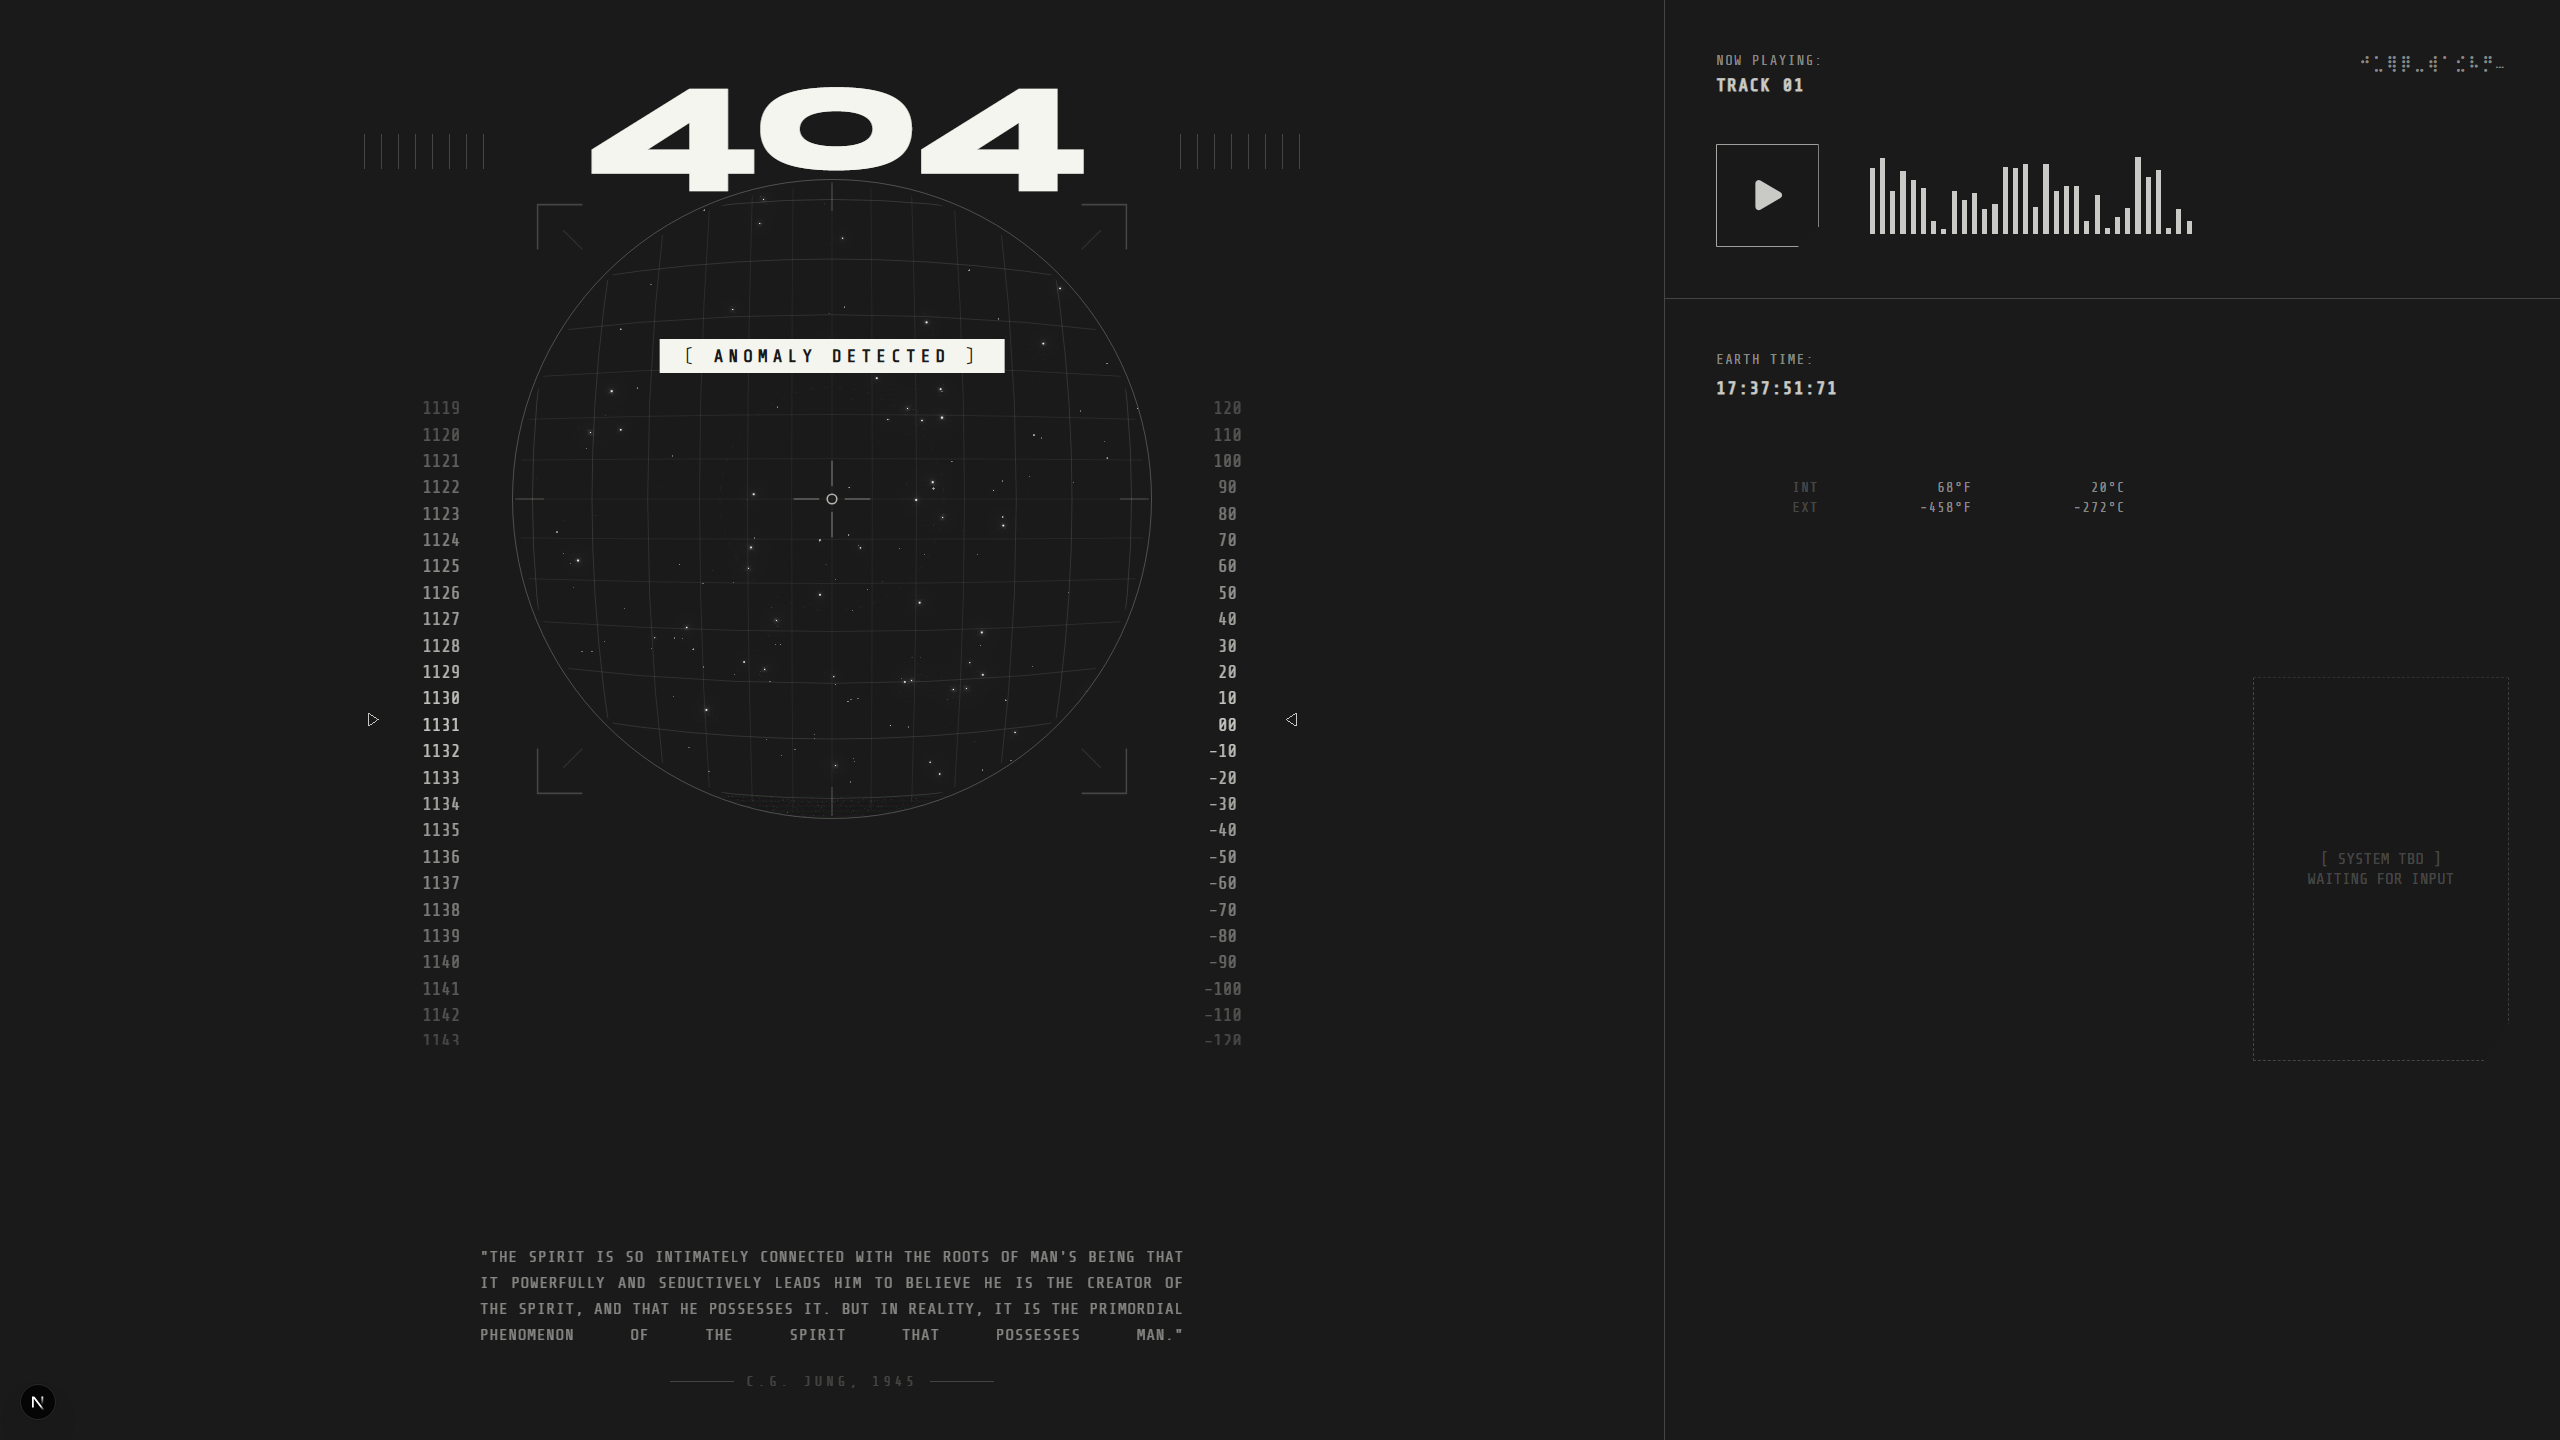
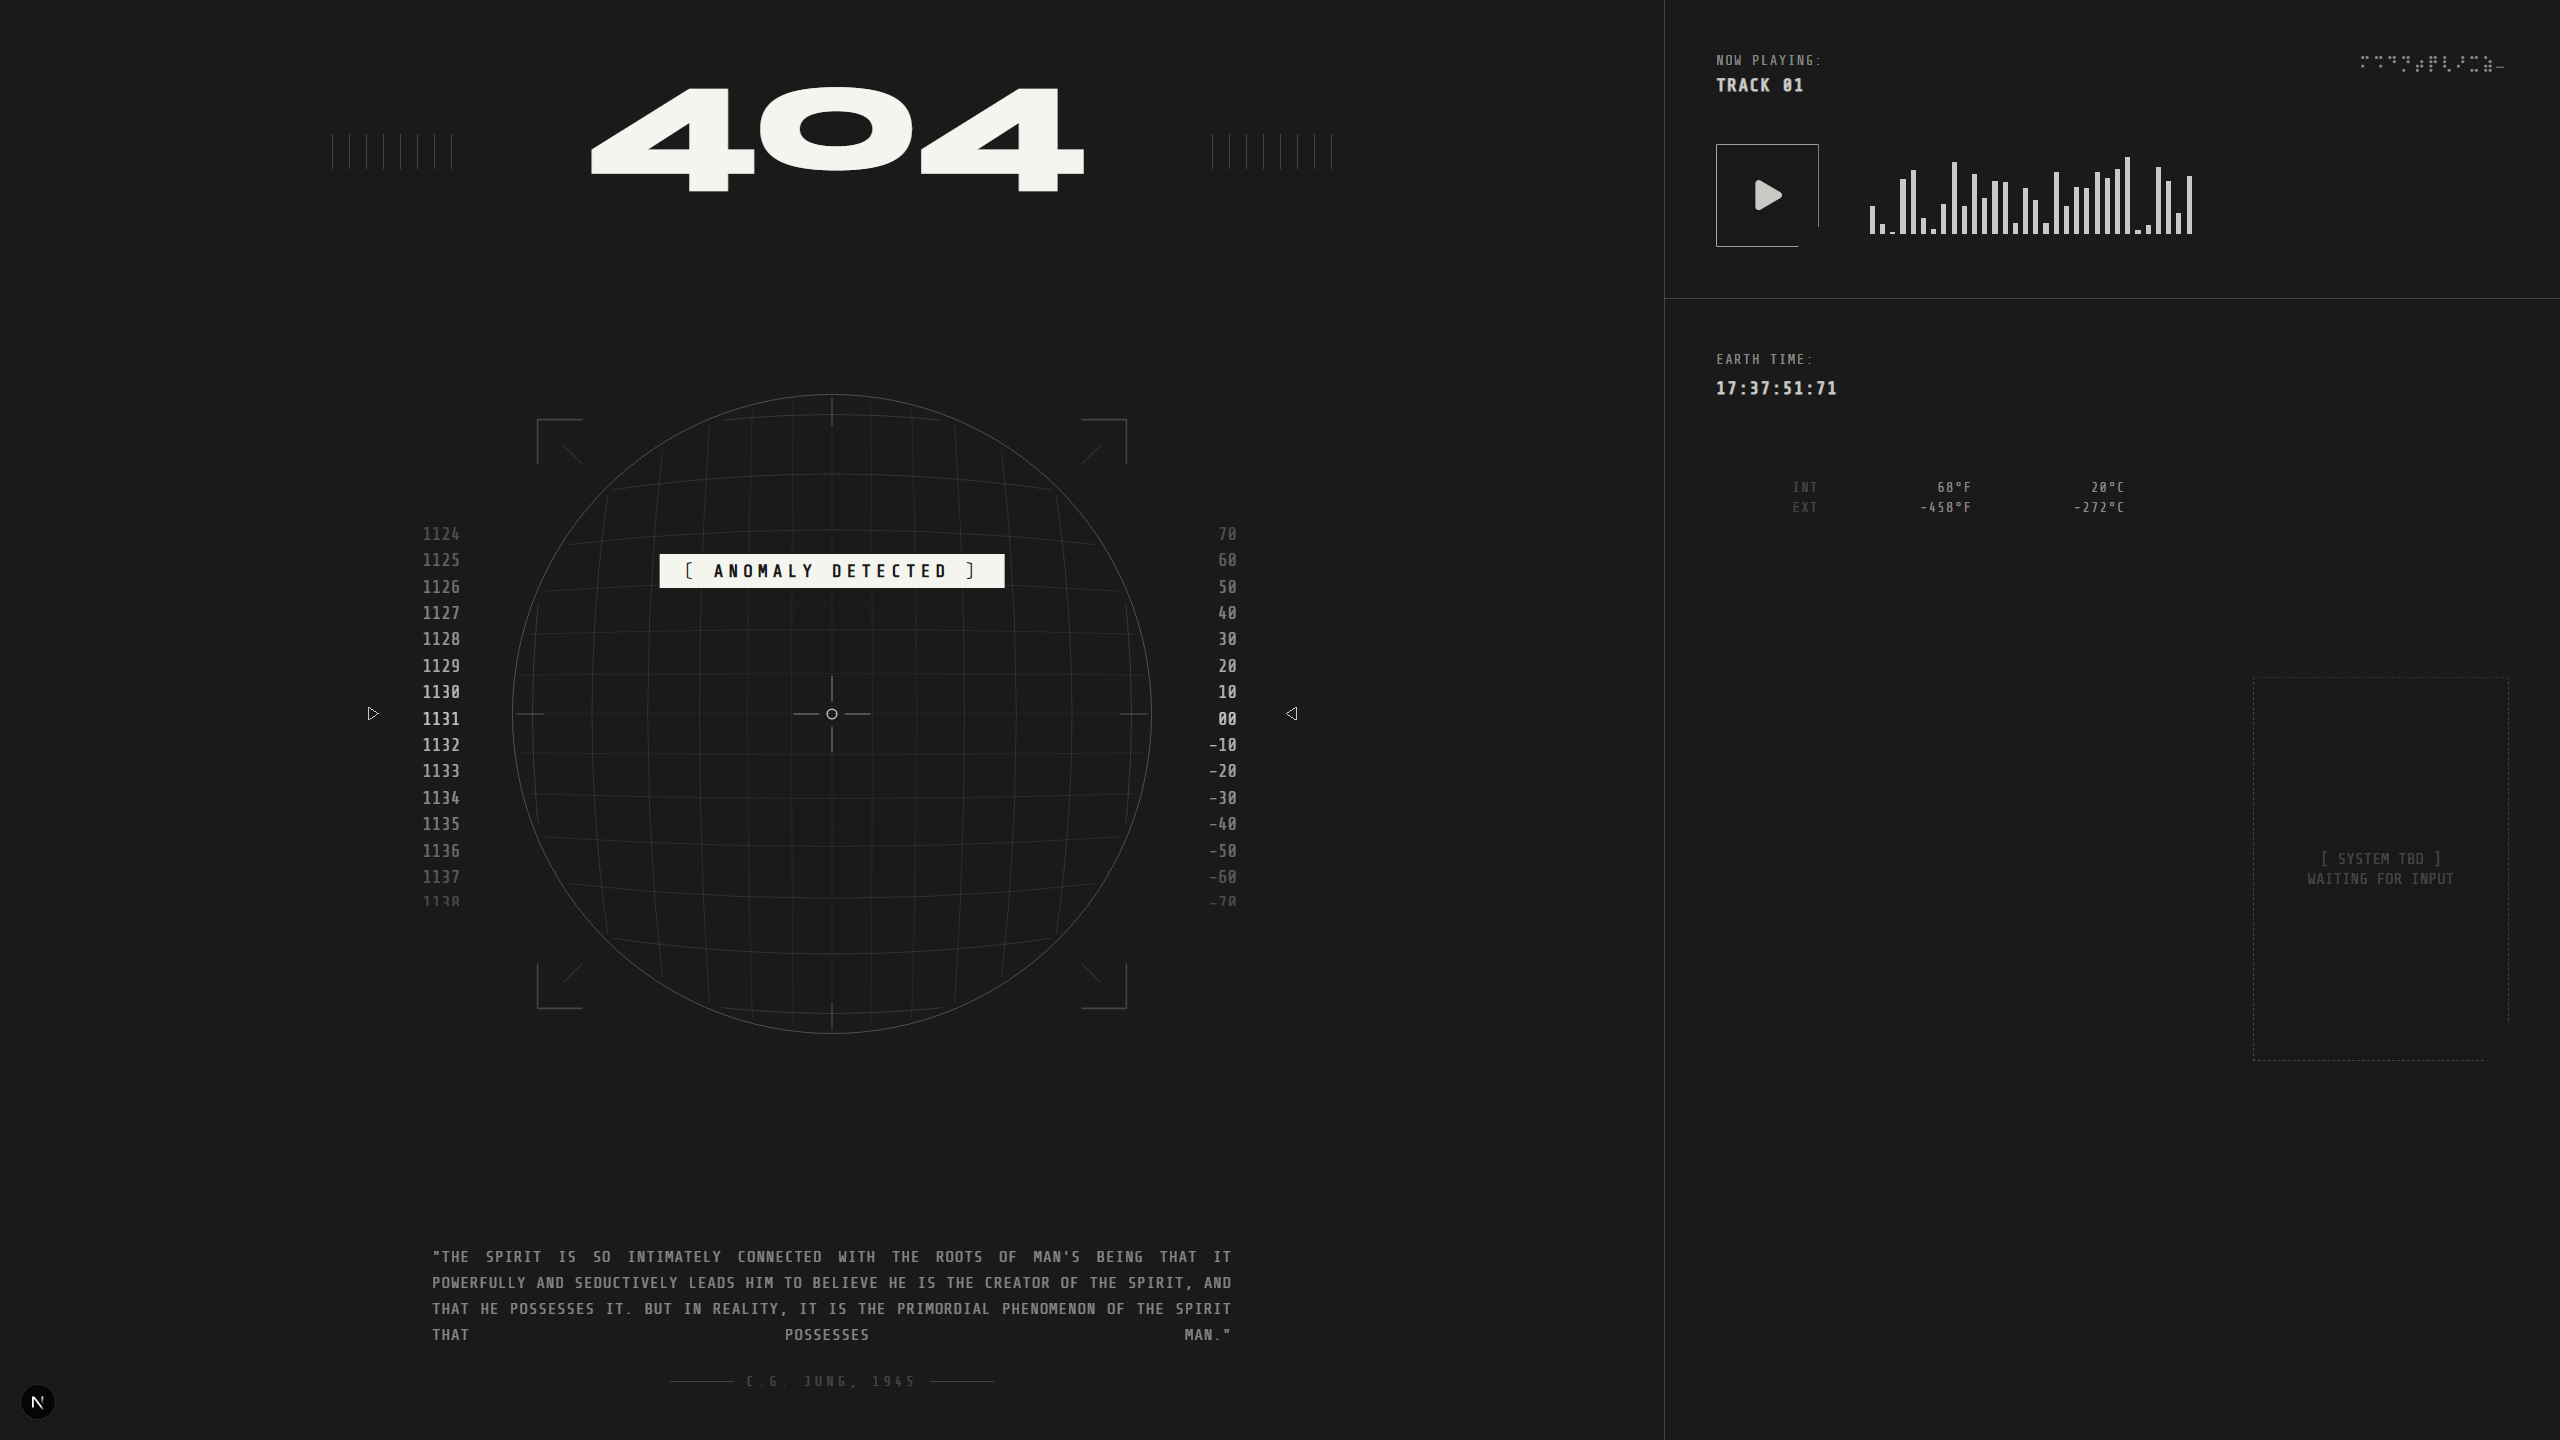
좌측 영역 재구조화 성공

diff --git a/components/ui/not-found/CockpitHUD.tsx b/components/ui/not-found/CockpitHUD.tsx
@@ -1,13 +1,7 @@
 "use client";
 
 import React from "react";
-import { MotionValue } from "framer-motion";
 import VerticalHUD from "./VerticalHUD";
-
-interface CockpitHUDProps {
-    mouseX: MotionValue<number>;
-    mouseY: MotionValue<number>;
-}
 
 /* ── Curved Spherical Grid Lines ── */
 function SphericalGrid() {
@@ -93,84 +87,95 @@ export default function CockpitHUD() {
     const fullQuote = `"The spirit is so intimately connected with the roots of man's being that it powerfully and seductively leads him to believe he is the creator of the spirit, and that he possesses it. But in reality, it is the primordial phenomenon of the spirit that possesses man."`;
 
     return (
-        <div className="relative h-full w-full pointer-events-none flex justify-center items-center overflow-hidden">
-            
-            {/* ── Top Header (Absolute Positioning) ── */}
-            <div className="absolute top-4 md:top-8 lg:top-12 left-1/2 -translate-x-1/2 w-full max-w-[min(95vw,1000px)] flex items-end justify-between z-30 px-4 md:px-8">
-                <div className="flex-1 flex items-end justify-start opacity-20 gap-2 md:gap-4 pb-[10px] md:pb-[15px]">
-                    {Array.from({ length: 8 }).map((_, i) => (
-                        <div key={`leftline-${i}`} className="w-[1px] h-[20px] md:h-[35px] bg-[var(--foreground)]" />
-                    ))}
-                </div>
-                
-                <h1 
-                    className="shrink-0 font-serif font-[900] tracking-tighter mx-4 md:mx-8 text-center"
-                    style={{ fontSize: 'clamp(5rem, 10vw, 10rem)', letterSpacing: '-0.05em', lineHeight: '0.85' }}
-                >
-                    404
-                </h1>
+        <div
+            className="h-full w-full pointer-events-none overflow-hidden"
+            style={{ display: 'grid', gridTemplateRows: 'auto 1fr auto' }}
+        >
+            {/* ═══ Row 1: Top Header (404 + Barcode Lines) ═══
+                z-30 so it paints ABOVE the viewport mask shadow */}
+            <div className="relative z-30 flex justify-center w-full pt-4 md:pt-8 lg:pt-12 px-4 md:px-8">
+                <div className="w-full max-w-[min(95vw,1000px)] flex items-end justify-between">
+                    <div className="flex-1 flex items-end justify-start opacity-20 gap-2 md:gap-4 pb-[10px] md:pb-[15px]">
+                        {Array.from({ length: 8 }).map((_, i) => (
+                            <div key={`leftline-${i}`} className="w-[1px] h-[20px] md:h-[35px] bg-[var(--foreground)]" />
+                        ))}
+                    </div>
 
-                <div className="flex-1 flex items-end justify-end opacity-20 gap-2 md:gap-4 pb-[10px] md:pb-[15px]">
-                    {Array.from({ length: 8 }).map((_, i) => (
-                        <div key={`rightline-${i}`} className="w-[1px] h-[20px] md:h-[35px] bg-[var(--foreground)]" />
-                    ))}
+                    <h1
+                        className="shrink-0 font-serif font-[900] tracking-tighter mx-4 md:mx-8 text-center"
+                        style={{ fontSize: 'clamp(5rem, 10vw, 10rem)', letterSpacing: '-0.05em', lineHeight: '0.85' }}
+                    >
+                        404
+                    </h1>
+
+                    <div className="flex-1 flex items-end justify-end opacity-20 gap-2 md:gap-4 pb-[10px] md:pb-[15px]">
+                        {Array.from({ length: 8 }).map((_, i) => (
+                            <div key={`rightline-${i}`} className="w-[1px] h-[20px] md:h-[35px] bg-[var(--foreground)]" />
+                        ))}
+                    </div>
                 </div>
             </div>
 
-            {/* ── Middle Area (Centered) ── */}
-            <div className="relative w-full max-w-[min(95vw,1000px)] flex flex-row items-stretch justify-between shrink-0 z-10 px-4 md:px-8">
-                
-                {/* Left HUD */}
-                <div className="flex-1 flex items-center justify-start z-20">
-                    <VerticalHUD side="left" />
-                </div>
+            {/* ═══ Row 2: Viewport Circle + Vertical HUDs ═══
+                1fr takes all remaining vertical space.
+                min-h-0 prevents flex overflow.
+                z-10 so the box-shadow mask sits behind Row 1 & Row 3. */}
+            <div className="relative z-10 flex items-center justify-center w-full min-h-0">
+                <div className="w-full max-w-[min(95vw,1000px)] flex flex-row items-center justify-between px-4 md:px-8">
 
-                {/* Viewport Mask and Overlay */}
-                <div className="relative z-[5] shrink-0 flex items-center justify-center w-[300px] h-[300px] md:w-[min(55vh,640px)] md:h-[min(55vh,640px)]">
-                    
-                    {/* Mask shadow extending out */}
-                    <div className="w-full h-full rounded-full relative" style={{ boxShadow: "0 0 0 200vmax var(--background)" }}>
-                        <div className="absolute inset-0 rounded-full border border-[var(--foreground)]/25" />
+                    {/* Left HUD — explicit height matching viewport */}
+                    <div className="flex-1 flex items-center justify-start z-20 h-[300px] md:h-[min(55vh,640px)]">
+                        <VerticalHUD side="left" />
                     </div>
 
-                    <div className="absolute inset-0 z-10">
-                        <ViewportOverlay />
-                    </div>
+                    {/* Viewport Mask and Overlay */}
+                    <div className="relative z-[5] shrink-0 flex items-center justify-center w-[300px] h-[300px] md:w-[min(55vh,640px)] md:h-[min(55vh,640px)]">
+                        {/* Mask shadow — 200vmax creates the opaque cockpit wall */}
+                        <div className="w-full h-full rounded-full relative" style={{ boxShadow: "0 0 0 200vmax var(--background)" }}>
+                            <div className="absolute inset-0 rounded-full border border-[var(--foreground)]/25" />
+                        </div>
 
-                    <div className="absolute top-[25%] left-1/2 -translate-x-1/2 z-10">
-                        <div
-                            className="px-4 py-1 bg-[var(--foreground)] text-[var(--background)] tracking-[0.3em] font-mono uppercase font-bold whitespace-nowrap"
-                            style={{ fontSize: 'clamp(0.7rem, 0.9vw, 1.1rem)' }}
-                        >
-                            〔 ANOMALY DETECTED 〕
+                        <div className="absolute inset-0 z-10">
+                            <ViewportOverlay />
+                        </div>
+
+                        <div className="absolute top-[25%] left-1/2 -translate-x-1/2 z-10">
+                            <div
+                                className="px-4 py-1 bg-[var(--foreground)] text-[var(--background)] tracking-[0.3em] font-mono uppercase font-bold whitespace-nowrap"
+                                style={{ fontSize: 'clamp(0.7rem, 0.9vw, 1.1rem)' }}
+                            >
+                                〔 ANOMALY DETECTED 〕
+                            </div>
                         </div>
                     </div>
 
-                </div>
-
-                {/* Right HUD */}
-                <div className="flex-1 flex items-center justify-end z-20">
-                    <VerticalHUD side="right" />
+                    {/* Right HUD — explicit height matching viewport */}
+                    <div className="flex-1 flex items-center justify-end z-20 h-[300px] md:h-[min(55vh,640px)]">
+                        <VerticalHUD side="right" />
+                    </div>
                 </div>
             </div>
 
-            {/* ── Bottom Quote Panel (Absolute Positioning) ── */}
-            <div className="absolute bottom-4 md:bottom-8 lg:bottom-12 left-1/2 -translate-x-1/2 w-full max-w-[85vw] md:max-w-[800px] flex flex-col justify-center z-30 px-4 md:px-12">
-                <p 
-                    className="w-full font-mono leading-relaxed text-justify uppercase tracking-[0.05em] opacity-50"
-                    style={{ fontSize: 'clamp(0.6rem, 0.8vw, 1rem)', textAlignLast: 'justify' }}
-                >
-                    {fullQuote}
-                </p>
-                <div className="flex items-center justify-center gap-3 mt-4 md:mt-6">
-                    <div className="h-[1px] w-8 md:w-16 bg-[var(--foreground)] opacity-20" />
-                    <span 
-                        className="font-mono opacity-20 tracking-[0.3em] uppercase whitespace-nowrap"
-                        style={{ fontSize: 'clamp(0.5rem, 0.65vw, 0.85rem)' }}
+            {/* ═══ Row 3: Bottom Quote Panel ═══
+                z-30 so it paints ABOVE the viewport mask shadow */}
+            <div className="relative z-30 flex justify-center w-full pb-4 md:pb-8 lg:pb-12 px-4 md:px-12">
+                <div className="w-full max-w-[85vw] md:max-w-[800px] flex flex-col justify-center">
+                    <p
+                        className="w-full font-mono leading-relaxed text-justify uppercase tracking-[0.05em] opacity-50"
+                        style={{ fontSize: 'clamp(0.6rem, 0.8vw, 1rem)', textAlignLast: 'justify' }}
                     >
-                        C.G. JUNG, 1945
-                    </span>
-                    <div className="h-[1px] w-8 md:w-16 bg-[var(--foreground)] opacity-20" />
+                        {fullQuote}
+                    </p>
+                    <div className="flex items-center justify-center gap-3 mt-4 md:mt-6">
+                        <div className="h-[1px] w-8 md:w-16 bg-[var(--foreground)] opacity-20" />
+                        <span
+                            className="font-mono opacity-20 tracking-[0.3em] uppercase whitespace-nowrap"
+                            style={{ fontSize: 'clamp(0.5rem, 0.65vw, 0.85rem)' }}
+                        >
+                            C.G. JUNG, 1945
+                        </span>
+                        <div className="h-[1px] w-8 md:w-16 bg-[var(--foreground)] opacity-20" />
+                    </div>
                 </div>
             </div>
         </div>